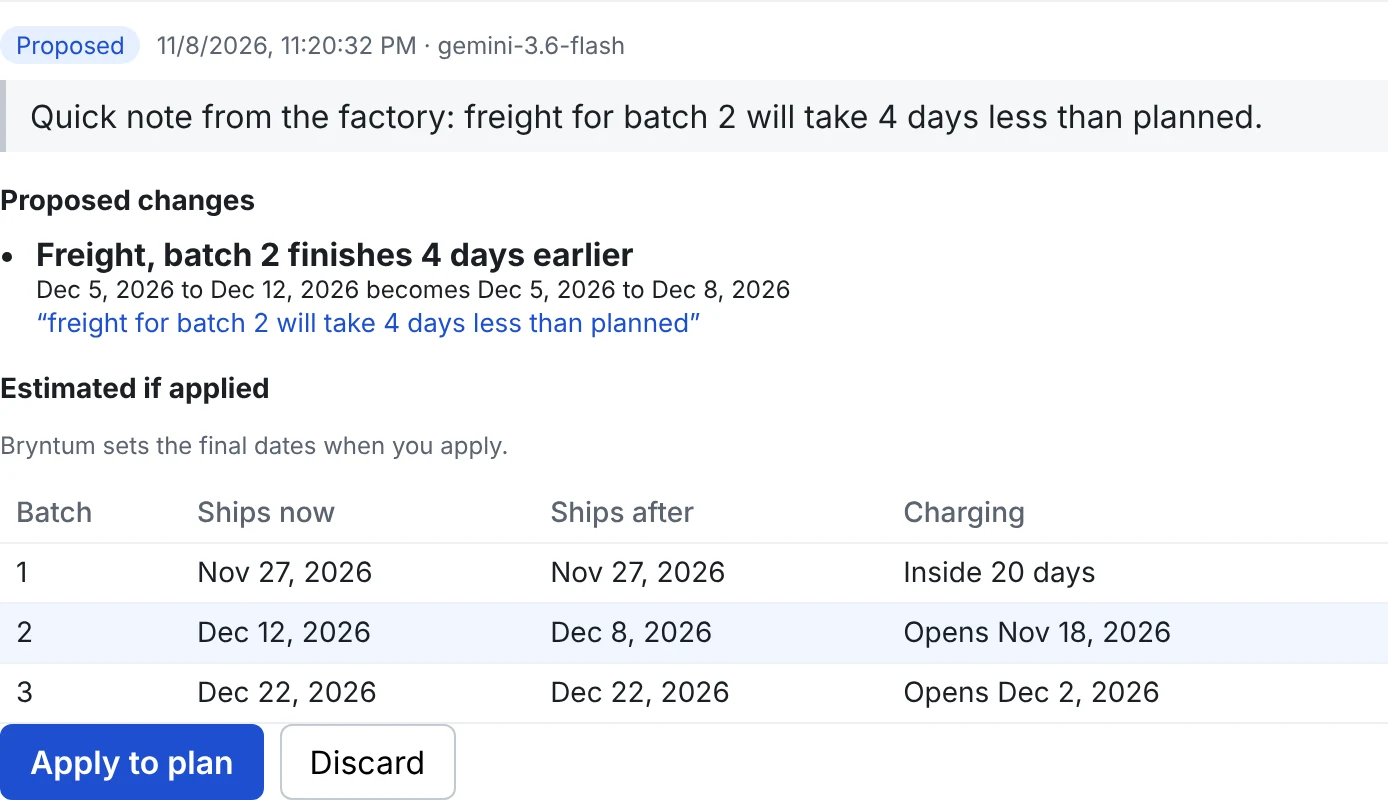
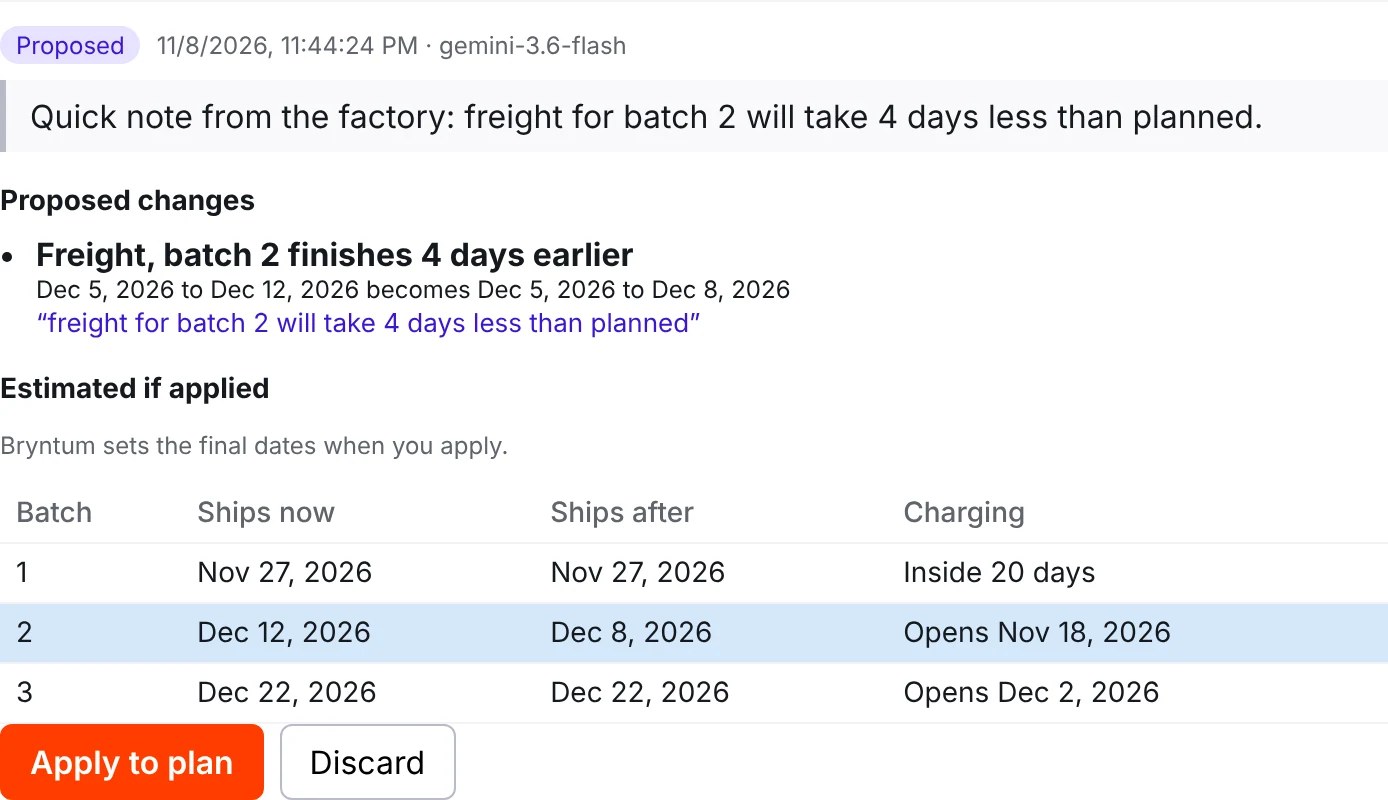
Switch the landing page and app to the reference color tokens
Accent, text, surface, dark, and status colors now follow the Brex
reference palette across the landing page, seller console, and buyer
pages. Landing screenshots are recaptured in the new colors, and the
footer hairline aligns with the content.

diff --git a/src/client/styles.css b/src/client/styles.css
@@ -1,89 +1,89 @@
-:root { font-family: system-ui, -apple-system, Segoe UI, sans-serif; color: #1b1f24; background: #f6f7f9; }
+:root { font-family: system-ui, -apple-system, Segoe UI, sans-serif; color: #15191e; background: #f9f9fb; }
 body { margin: 0; }
 h1 { font-size: 22px; margin: 0 0 4px; }
 h2 { font-size: 16px; margin: 0 0 12px; }
-button { font: inherit; padding: 8px 14px; border-radius: 6px; border: 1px solid #c4c9d0; background: #fff; cursor: pointer; }
-button:focus-visible, input:focus-visible { outline: 3px solid #2f6feb; outline-offset: 2px; }
-button.primary { background: #1f4fd1; border-color: #1f4fd1; color: #fff; font-weight: 600; }
+button { font: inherit; padding: 8px 14px; border-radius: 6px; border: 1px solid #b9bbc6; background: #fff; cursor: pointer; }
+button:focus-visible, input:focus-visible { outline: 3px solid #ff3d00; outline-offset: 2px; }
+button.primary { background: #ff3d00; border-color: #ff3d00; color: #fff; font-weight: 600; }
 button.primary:disabled { opacity: 0.6; cursor: default; }
 button.secondary { margin-top: 12px; }
 .page { padding: 32px 16px; }
 .narrow { max-width: 520px; margin: 0 auto; }
-.muted { color: #5b6470; }
+.muted { color: #60646c; }
 .small { font-size: 12px; }
-.error { color: #b42318; }
-.notice { background: #fff8e6; border: 1px solid #f0d58c; padding: 10px 12px; border-radius: 6px; }
-.rule { background: #eef3ff; padding: 10px 12px; border-radius: 6px; }
+.error { color: #ee2929; }
+.notice { background: #f3f3f7; border: 1px solid rgba(66, 87, 138, 0.15); padding: 10px 12px; border-radius: 6px; }
+.rule { background: #f3f3f7; padding: 10px 12px; border-radius: 6px; }
 .price { font-size: 20px; font-weight: 600; }
 .facts { display: grid; grid-template-columns: max-content 1fr; gap: 6px 16px; }
-.facts dt { color: #5b6470; }
+.facts dt { color: #60646c; }
 .facts dd { margin: 0; font-weight: 500; }
-.tag { margin-left: 10px; font-size: 12px; background: #fff3d6; color: #7a5300; padding: 2px 8px; border-radius: 10px; }
+.tag { margin-left: 10px; font-size: 12px; background: #f3f3f7; color: #60646c; padding: 2px 8px; border-radius: 10px; }
 .console { display: flex; flex-direction: column; min-height: 100vh; }
-.bar { display: flex; justify-content: space-between; gap: 24px; padding: 16px; background: #fff; border-bottom: 1px solid #e3e6ea; }
+.bar { display: flex; justify-content: space-between; gap: 24px; padding: 16px; background: #fff; border-bottom: 1px solid rgba(66, 87, 138, 0.15); }
 .bar p { margin: 0; }
-.link label { display: block; font-size: 12px; color: #5b6470; margin-bottom: 4px; }
+.link label { display: block; font-size: 12px; color: #60646c; margin-bottom: 4px; }
 .row { display: flex; gap: 8px; }
-.row input { width: 380px; padding: 7px 8px; border: 1px solid #c4c9d0; border-radius: 6px; font: inherit; }
-.gantt { height: 640px; border-bottom: 1px solid #e3e6ea; }
+.row input { width: 380px; padding: 7px 8px; border: 1px solid #b9bbc6; border-radius: 6px; font: inherit; }
+.gantt { height: 640px; border-bottom: 1px solid rgba(66, 87, 138, 0.15); }
 .panels { display: grid; grid-template-columns: 1fr 1fr; gap: 16px; padding: 16px; }
-.panel { background: #fff; border: 1px solid #e3e6ea; border-radius: 8px; padding: 16px; }
+.panel { background: #fff; border: 1px solid rgba(66, 87, 138, 0.15); border-radius: 8px; padding: 16px; }
 table { width: 100%; border-collapse: collapse; font-size: 14px; }
-th, td { text-align: left; padding: 6px 8px; border-bottom: 1px solid #eef0f2; vertical-align: top; }
-th { color: #5b6470; font-weight: 500; }
-.badge { display: inline-block; font-size: 12px; padding: 2px 8px; border-radius: 10px; background: #eef0f2; }
-.s-reserved { background: #e6f0ff; color: #1f4fd1; }
-.s-charged { background: #e3f7e9; color: #146c2e; }
-.s-abandoned, .s-cancelled, .s-revoked { background: #f2f2f2; color: #5b6470; }
-.s-charge_failed, .s-at_risk { background: #fdecea; color: #b42318; }
-.savebar { padding: 10px 16px; background: #fff; border-bottom: 1px solid #e3e6ea; font-size: 14px; min-height: 20px; }
-.ok { color: #146c2e; }
+th, td { text-align: left; padding: 6px 8px; border-bottom: 1px solid #f3f3f7; vertical-align: top; }
+th { color: #60646c; font-weight: 500; }
+.badge { display: inline-block; font-size: 12px; padding: 2px 8px; border-radius: 10px; background: #f3f3f7; }
+.s-reserved { background: #d5e8fb; color: #006ef5; }
+.s-charged { background: #d1f4d2; color: #0d9926; }
+.s-abandoned, .s-cancelled, .s-revoked { background: #f3f3f7; color: #60646c; }
+.s-charge_failed, .s-at_risk { background: #ffe3e6; color: #ee2929; }
+.savebar { padding: 10px 16px; background: #fff; border-bottom: 1px solid rgba(66, 87, 138, 0.15); font-size: 14px; min-height: 20px; }
+.ok { color: #0d9926; }
 .panels.single { grid-template-columns: 1fr; padding-top: 0; }
 .scroll { overflow-x: auto; }
 .mono { font-family: ui-monospace, SFMono-Regular, Menlo, monospace; font-size: 12px; }
-.o-completed { background: #e3f7e9; color: #146c2e; }
-.o-declined, .o-failed, .o-revoked { background: #fdecea; color: #b42318; }
-.o-unknown, .o-pending { background: #fff3d6; color: #7a5300; }
+.o-completed { background: #d1f4d2; color: #0d9926; }
+.o-declined, .o-failed, .o-revoked { background: #ffe3e6; color: #ee2929; }
+.o-unknown, .o-pending { background: #f3f3f7; color: #60646c; }
 .cancel { margin-top: 20px; }
 .cancel .row { gap: 8px; }
-button.danger { background: #b42318; border-color: #b42318; color: #fff; font-weight: 600; }
+button.danger { background: #ee2929; border-color: #ee2929; color: #fff; font-weight: 600; }
 .panel h3 { font-size: 14px; margin: 16px 0 8px; }
-.panel form label { display: block; font-size: 13px; color: #5b6470; margin-bottom: 6px; }
-textarea { width: 100%; box-sizing: border-box; font: inherit; padding: 8px; border: 1px solid #c4c9d0; border-radius: 6px; margin-bottom: 8px; }
-textarea:focus-visible { outline: 3px solid #2f6feb; outline-offset: 2px; }
+.panel form label { display: block; font-size: 13px; color: #60646c; margin-bottom: 6px; }
+textarea { width: 100%; box-sizing: border-box; font: inherit; padding: 8px; border: 1px solid #b9bbc6; border-radius: 6px; margin-bottom: 8px; }
+textarea:focus-visible { outline: 3px solid #ff3d00; outline-offset: 2px; }
 .row { align-items: center; }
-.update { margin-top: 16px; border-top: 1px solid #eef0f2; padding-top: 12px; }
-.raw { margin: 8px 0; padding: 8px 12px; background: #f6f7f9; border-left: 3px solid #c4c9d0; white-space: pre-wrap; }
+.update { margin-top: 16px; border-top: 1px solid #f3f3f7; padding-top: 12px; }
+.raw { margin: 8px 0; padding: 8px 12px; background: #f9f9fb; border-left: 3px solid #b9bbc6; white-space: pre-wrap; }
 .proposals, .dropped, .history { padding-left: 18px; margin: 0; }
 .proposals li, .dropped li { margin-bottom: 8px; }
-.quote { display: block; font-style: normal; color: #1f4fd1; font-size: 13px; margin-top: 2px; }
-tr.changed td { background: #f0f6ff; }
-.u-proposed { background: #e6f0ff; color: #1f4fd1; }
-.u-applied { background: #e3f7e9; color: #146c2e; }
-.u-rejected_invalid, .u-discarded { background: #f2f2f2; color: #5b6470; }
+.quote { display: block; font-style: normal; color: #3c16d5; font-size: 13px; margin-top: 2px; }
+tr.changed td { background: #d5e8fb; }
+.u-proposed { background: #e6e2ff; color: #3c16d5; }
+.u-applied { background: #d1f4d2; color: #0d9926; }
+.u-rejected_invalid, .u-discarded { background: #f3f3f7; color: #60646c; }
 details { margin-top: 12px; font-size: 14px; }
 .small-btn { margin-top: 6px; padding: 4px 10px; font-size: 13px; }
-.s-at_risk { background: #fdecea; color: #b42318; }
-.s-refunded { background: #f2f2f2; color: #5b6470; }
-.draft { border: 1px solid #e3e6ea; border-radius: 8px; padding: 12px; margin-top: 12px; }
-.draft pre { white-space: pre-wrap; font: inherit; margin: 8px 0; background: #f6f7f9; padding: 10px; border-radius: 6px; }
-.tag.draft-tag { background: #eef0f2; color: #1b1f24; }
-.legend { display: flex; flex-wrap: wrap; gap: 16px; padding: 8px 16px; font-size: 13px; color: #5b6470; background: #fff; border-bottom: 1px solid #e3e6ea; }
+.s-at_risk { background: #ffe3e6; color: #ee2929; }
+.s-refunded { background: #f3f3f7; color: #60646c; }
+.draft { border: 1px solid rgba(66, 87, 138, 0.15); border-radius: 8px; padding: 12px; margin-top: 12px; }
+.draft pre { white-space: pre-wrap; font: inherit; margin: 8px 0; background: #f9f9fb; padding: 10px; border-radius: 6px; }
+.tag.draft-tag { background: #f3f3f7; color: #15191e; }
+.legend { display: flex; flex-wrap: wrap; gap: 16px; padding: 8px 16px; font-size: 13px; color: #60646c; background: #fff; border-bottom: 1px solid rgba(66, 87, 138, 0.15); }
 .legend span { display: inline-flex; align-items: center; gap: 6px; }
 .sw { display: inline-block; width: 10px; height: 10px; transform: rotate(45deg); }
-.sw-waiting { background: #8a94a3; }
-.sw-open { background: #1f4fd1; }
-.sw-charged { background: #146c2e; }
-.sw-at-risk { background: #b42318; }
-.sw-empty { background: #fff; border: 2px solid #8a94a3; width: 6px; height: 6px; }
+.sw-waiting { background: #8b8d98; }
+.sw-open { background: #006ef5; }
+.sw-charged { background: #0d9926; }
+.sw-at-risk { background: #ee2929; }
+.sw-empty { background: #fff; border: 2px solid #8b8d98; width: 6px; height: 6px; }
 /* Bryntum draws the milestone diamond with .b-gantt-task-content and its ::before. */
 .b-gantt-task.bd-ship { background: transparent; }
-.bd-ship-waiting .b-gantt-task-content, .bd-ship-waiting .b-gantt-task-content::before { background: #8a94a3; }
-.bd-ship-open .b-gantt-task-content, .bd-ship-open .b-gantt-task-content::before { background: #1f4fd1; }
-.bd-ship-charged .b-gantt-task-content, .bd-ship-charged .b-gantt-task-content::before { background: #146c2e; }
-.bd-ship-at-risk .b-gantt-task-content, .bd-ship-at-risk .b-gantt-task-content::before { background: #b42318; }
-.bd-ship-empty .b-gantt-task-content, .bd-ship-empty .b-gantt-task-content::before { background: #fff; outline: 2px solid #8a94a3; outline-offset: -2px; }
-.b-grid-cell.bd-open { color: #1f4fd1; font-weight: 600; }
+.bd-ship-waiting .b-gantt-task-content, .bd-ship-waiting .b-gantt-task-content::before { background: #8b8d98; }
+.bd-ship-open .b-gantt-task-content, .bd-ship-open .b-gantt-task-content::before { background: #006ef5; }
+.bd-ship-charged .b-gantt-task-content, .bd-ship-charged .b-gantt-task-content::before { background: #0d9926; }
+.bd-ship-at-risk .b-gantt-task-content, .bd-ship-at-risk .b-gantt-task-content::before { background: #ee2929; }
+.bd-ship-empty .b-gantt-task-content, .bd-ship-empty .b-gantt-task-content::before { background: #fff; outline: 2px solid #8b8d98; outline-offset: -2px; }
+.b-grid-cell.bd-open { color: #006ef5; font-weight: 600; }
 .bd-tip { font-size: 13px; line-height: 1.5; max-width: 280px; }
 .bd-tip-state { margin-top: 4px; font-weight: 600; }
-.bd-tip-rule { margin-top: 4px; color: #5b6470; }
+.bd-tip-rule { margin-top: 4px; color: #60646c; }

diff --git a/src/client/landing/landing.css b/src/client/landing/landing.css
@@ -6,10 +6,10 @@
   --lp-text: #15191e;
   --lp-text-2: #60646c;
   --lp-text-3: #8b8d98;
-  --lp-hairline: #e3e6ea;
-  --lp-accent: #1f4fd1;
-  --lp-accent-hover: #1a43b3;
-  --lp-dark: #0b0f14;
+  --lp-hairline: rgba(66, 87, 138, 0.15);
+  --lp-accent: #ff3d00;
+  --lp-accent-hover: #ff5900;
+  --lp-dark: #000710;
   --lp-on-dark: #fcfcfd;
   --lp-max: 1120px;
 
@@ -350,7 +350,7 @@
 .lp-fit-list { margin: 24px 0 0; padding: 0; list-style: none; display: grid; gap: 20px; }
 .lp-fit-list li { display: flex; gap: 12px; font-size: 16px; line-height: 1.5; color: var(--lp-text-2); }
 .lp-fit-list svg { flex: none; margin-top: 2px; }
-.lp-fit-yes { color: #146c2e; }
+.lp-fit-yes { color: #0d9926; }
 .lp-fit-no { color: var(--lp-text-3); }
 
 @media (max-width: 767px) {
@@ -362,23 +362,24 @@
 /* [7] Final call to action */
 .lp-bg-dark { background: var(--lp-dark); }
 .lp .lp-on-dark { color: var(--lp-on-dark); }
-.lp .lp-on-dark-2 { color: #b4b9c2; }
+.lp .lp-on-dark-2 { color: #b9bbc6; }
 .lp .lp-textlink-dark { color: var(--lp-on-dark); }
-.lp-bg-dark :focus-visible { outline-color: #8fb0ff; }
-.lp-dark-note { margin: 24px 0 0; font-size: 14px; line-height: 1.5; color: #8b8f99; }
+.lp-bg-dark :focus-visible { outline-color: #ff6b18; }
+.lp-dark-note { margin: 24px 0 0; font-size: 14px; line-height: 1.5; color: #8b8d98; }
 
 /* [8] Footer */
 .lp-footer { background: var(--lp-dark); color: var(--lp-on-dark); }
-.lp-footer .lp-container { padding-top: 48px; padding-bottom: 48px; border-top: 1px solid rgba(252, 252, 253, 0.12); }
+.lp-footer .lp-container { padding-bottom: 48px; }
+.lp-footer-top { padding-top: 48px; border-top: 1px solid rgba(252, 252, 253, 0.12); }
 .lp-footer-top { display: flex; flex-wrap: wrap; align-items: center; gap: 24px 48px; }
-.lp-footer-mark { color: #8fb0ff; }
-.lp-footer-built { margin: 0; font-size: 15px; line-height: 1.5; color: #b4b9c2; }
+.lp-footer-mark { color: #ff6b18; }
+.lp-footer-built { margin: 0; font-size: 15px; line-height: 1.5; color: #b9bbc6; }
 .lp-footer-top nav { margin-left: auto; }
 .lp-footer-links { display: flex; gap: 28px; margin: 0; padding: 0; list-style: none; }
-.lp .lp-footer-links a { font-size: 15px; font-weight: 500; color: #b4b9c2; transition: color 150ms ease; }
+.lp .lp-footer-links a { font-size: 15px; font-weight: 500; color: #b9bbc6; transition: color 150ms ease; }
 .lp .lp-footer-links a:hover { color: var(--lp-on-dark); }
-.lp-footer-legal { margin: 32px 0 0; font-size: 13px; line-height: 1.5; color: #8b8f99; }
-.lp-footer :focus-visible { outline-color: #8fb0ff; }
+.lp-footer-legal { margin: 32px 0 0; font-size: 13px; line-height: 1.5; color: #8b8d98; }
+.lp-footer :focus-visible { outline-color: #ff6b18; }
 
 @media (max-width: 767px) {
   .lp-footer-top { flex-direction: column; align-items: flex-start; gap: 16px; }
